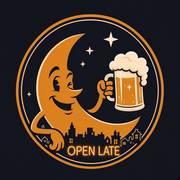
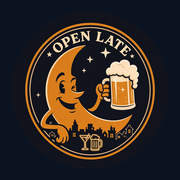
v256 arched OPEN LATE badge (Jon pick over neon)

diff --git a/index.html b/index.html
@@ -32,7 +32,7 @@
 <meta property="og:image" content="https://openlateapp.com/icons/og-image.png">
 <meta property="og:image:width" content="1200">
 <meta property="og:image:height" content="630">
-<meta property="og:image:alt" content="Open Late: a winking moon raising a beer over a skyline, with a neon OPEN LATE sign. Who's open late, whose kitchen is still serving and tonight's specials, across Pennsylvania, Maryland, Delaware, DC, Georgia, Florida, Virginia, West Virginia, South Carolina, North Carolina, New Jersey, New York, Rhode Island, Connecticut, Massachusetts, Vermont and New Hampshire.">
+<meta property="og:image:alt" content="Open Late: a winking moon raising a beer over a skyline, with OPEN LATE arched across the top. Who's open late, whose kitchen is still serving and tonight's specials, across Pennsylvania, Maryland, Delaware, DC, Georgia, Florida, Virginia, West Virginia, South Carolina, North Carolina, New Jersey, New York, Rhode Island, Connecticut, Massachusetts, Vermont and New Hampshire.">
 <meta name="twitter:card" content="summary_large_image">
 <meta name="twitter:title" content="Open Late · Who's open late near you in PA, MD, DE, DC, GA, FL, VA, WV, SC, NC, NJ, NY, RI, CT, MA, VT & NH">
 <meta name="twitter:description" content="Restaurants and bars open late, kitchens still serving, happy hours and wing and beer specials, across Pennsylvania, Maryland, Delaware, DC, Georgia, Florida, Virginia, West Virginia, South Carolina, North Carolina, New Jersey, New York, Rhode Island, Connecticut, Massachusetts, Vermont and New Hampshire.">
@@ -49,7 +49,7 @@
 <meta name="mobile-web-app-capable" content="yes">
 <meta name="apple-mobile-web-app-status-bar-style" content="black-translucent">
 <meta name="apple-mobile-web-app-title" content="Open Late">
-<link rel="stylesheet" href="styles.css?v=255">
+<link rel="stylesheet" href="styles.css?v=256">
 <script src="config.js"></script>
 </head>
 <body>
@@ -235,6 +235,6 @@
     <p class="small">Sent to the Open Late editor by email through FormSubmit.co. We don't publish your name or email.</p>
   </form>
 </dialog>
-<script src="app.js?v=255" defer></script>
+<script src="app.js?v=256" defer></script>
 </body>
 </html>

diff --git a/sw.js b/sw.js
@@ -1,6 +1,6 @@
 // Open Late service worker: app shell + data/index.json precached; County files (data/county/<id>.json) are network-first and cached when opened, for offline.
-const VERSION = "open-late-v255";
-const SHELL = ["./", "index.html", "styles.css?v=255", "app.js?v=255", "config.js", "manifest.webmanifest", "icons/icon.svg", "icons/logo.png", "icons/icon-192.png", "favicon.ico", "icons/icon-512.png", "data/index.json"];
+const VERSION = "open-late-v256";
+const SHELL = ["./", "index.html", "styles.css?v=256", "app.js?v=256", "config.js", "manifest.webmanifest", "icons/icon.svg", "icons/logo.png", "icons/icon-192.png", "favicon.ico", "icons/icon-512.png", "data/index.json"];
 self.addEventListener("install", (e) => { e.waitUntil(caches.open(VERSION).then((c) => c.addAll(SHELL)).then(() => self.skipWaiting())); });
 self.addEventListener("activate", (e) => { e.waitUntil(caches.keys().then((ks) => Promise.all(ks.filter((k) => k !== VERSION).map((k) => caches.delete(k)))).then(() => self.clients.claim())); });
 self.addEventListener("fetch", (e) => {
